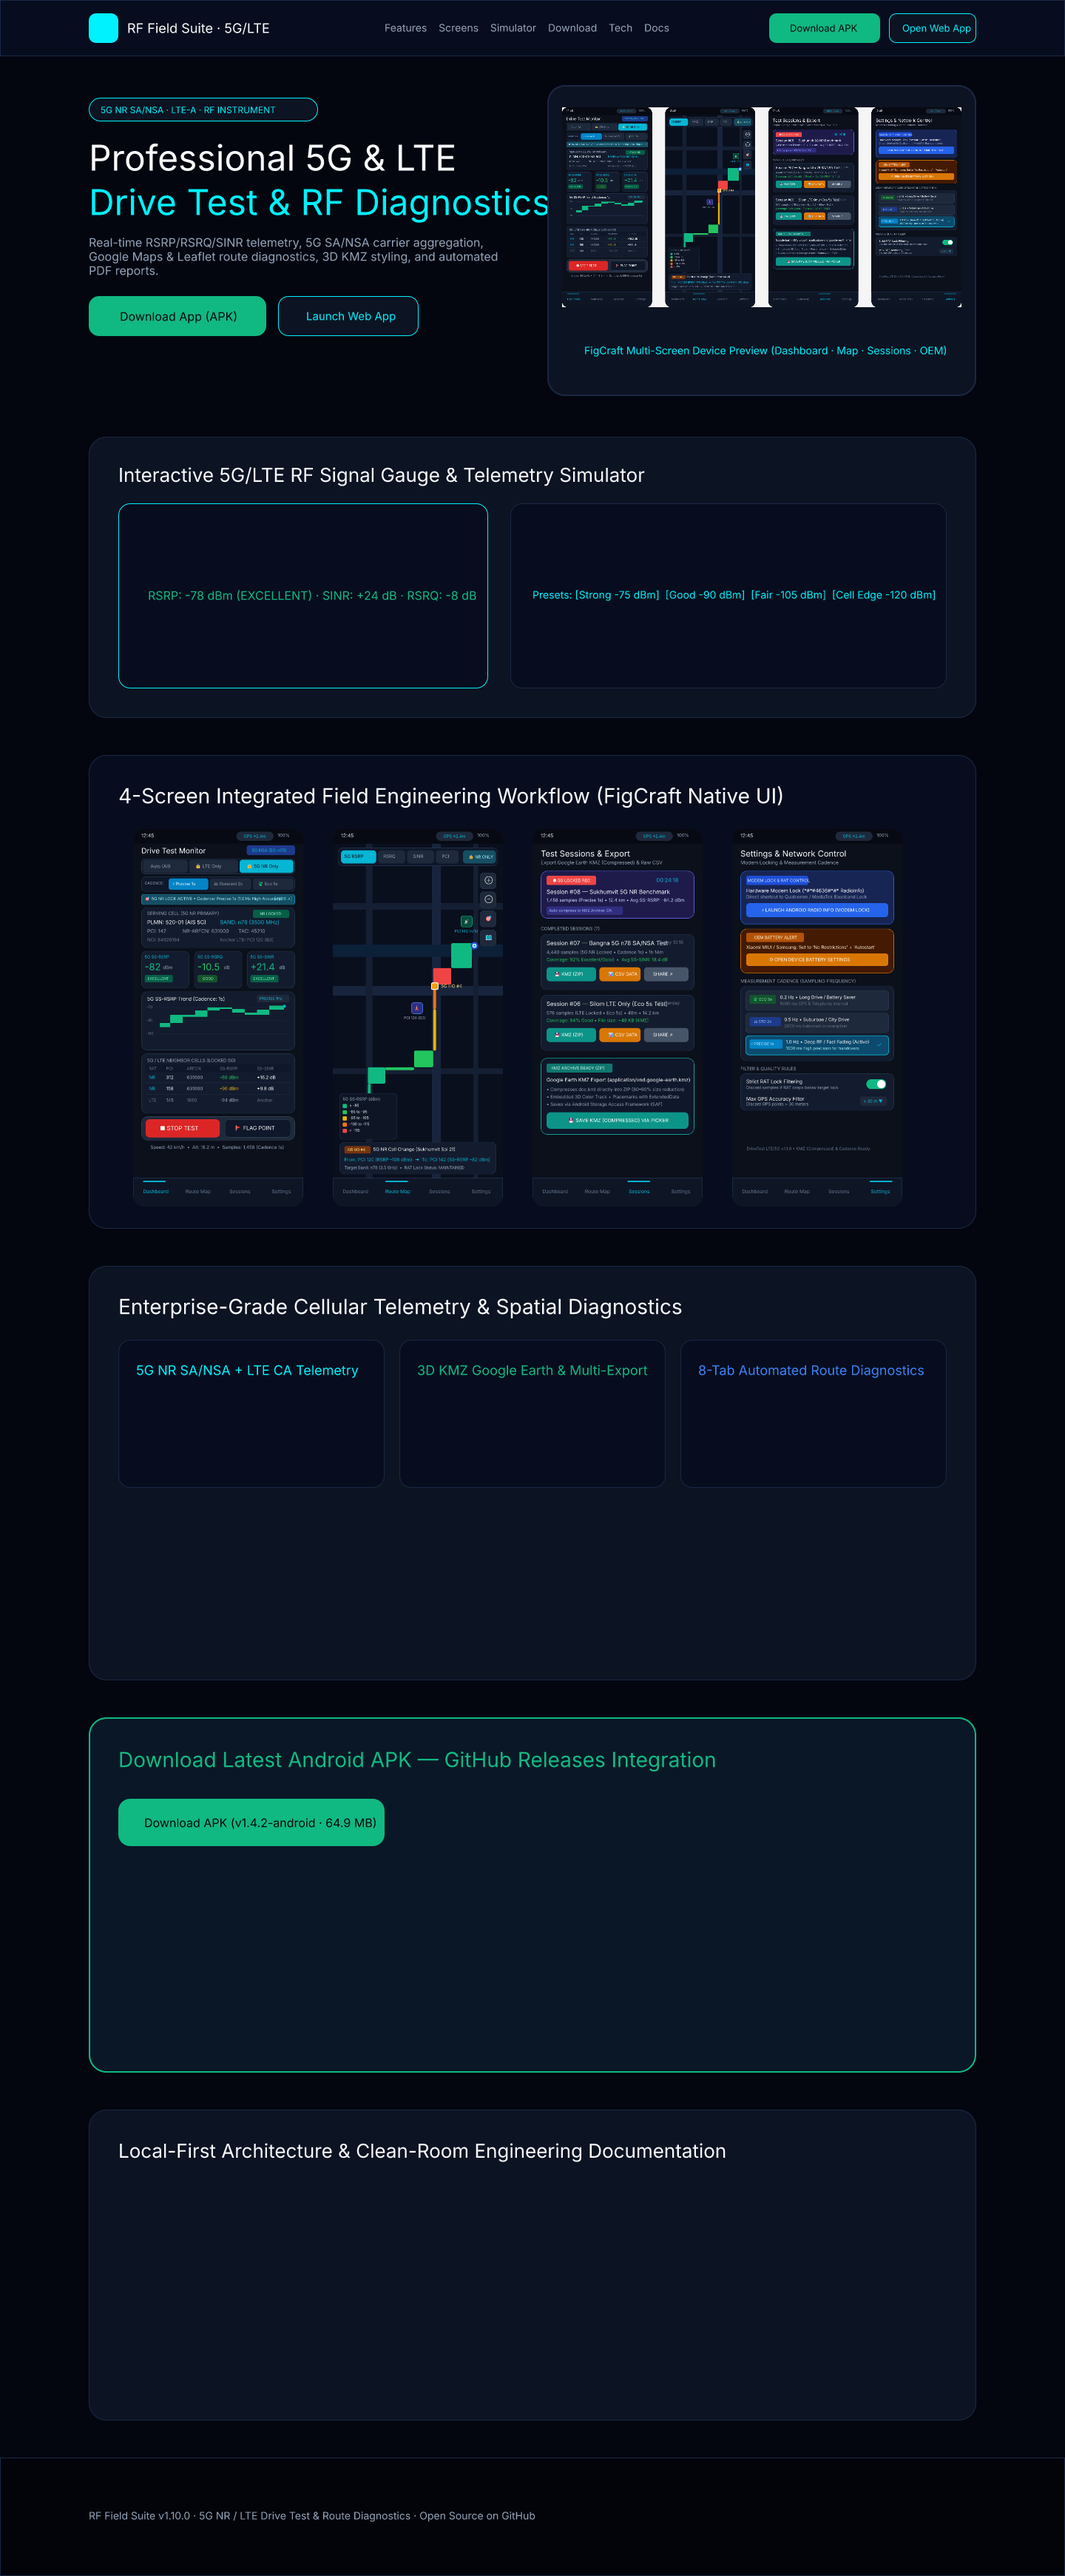
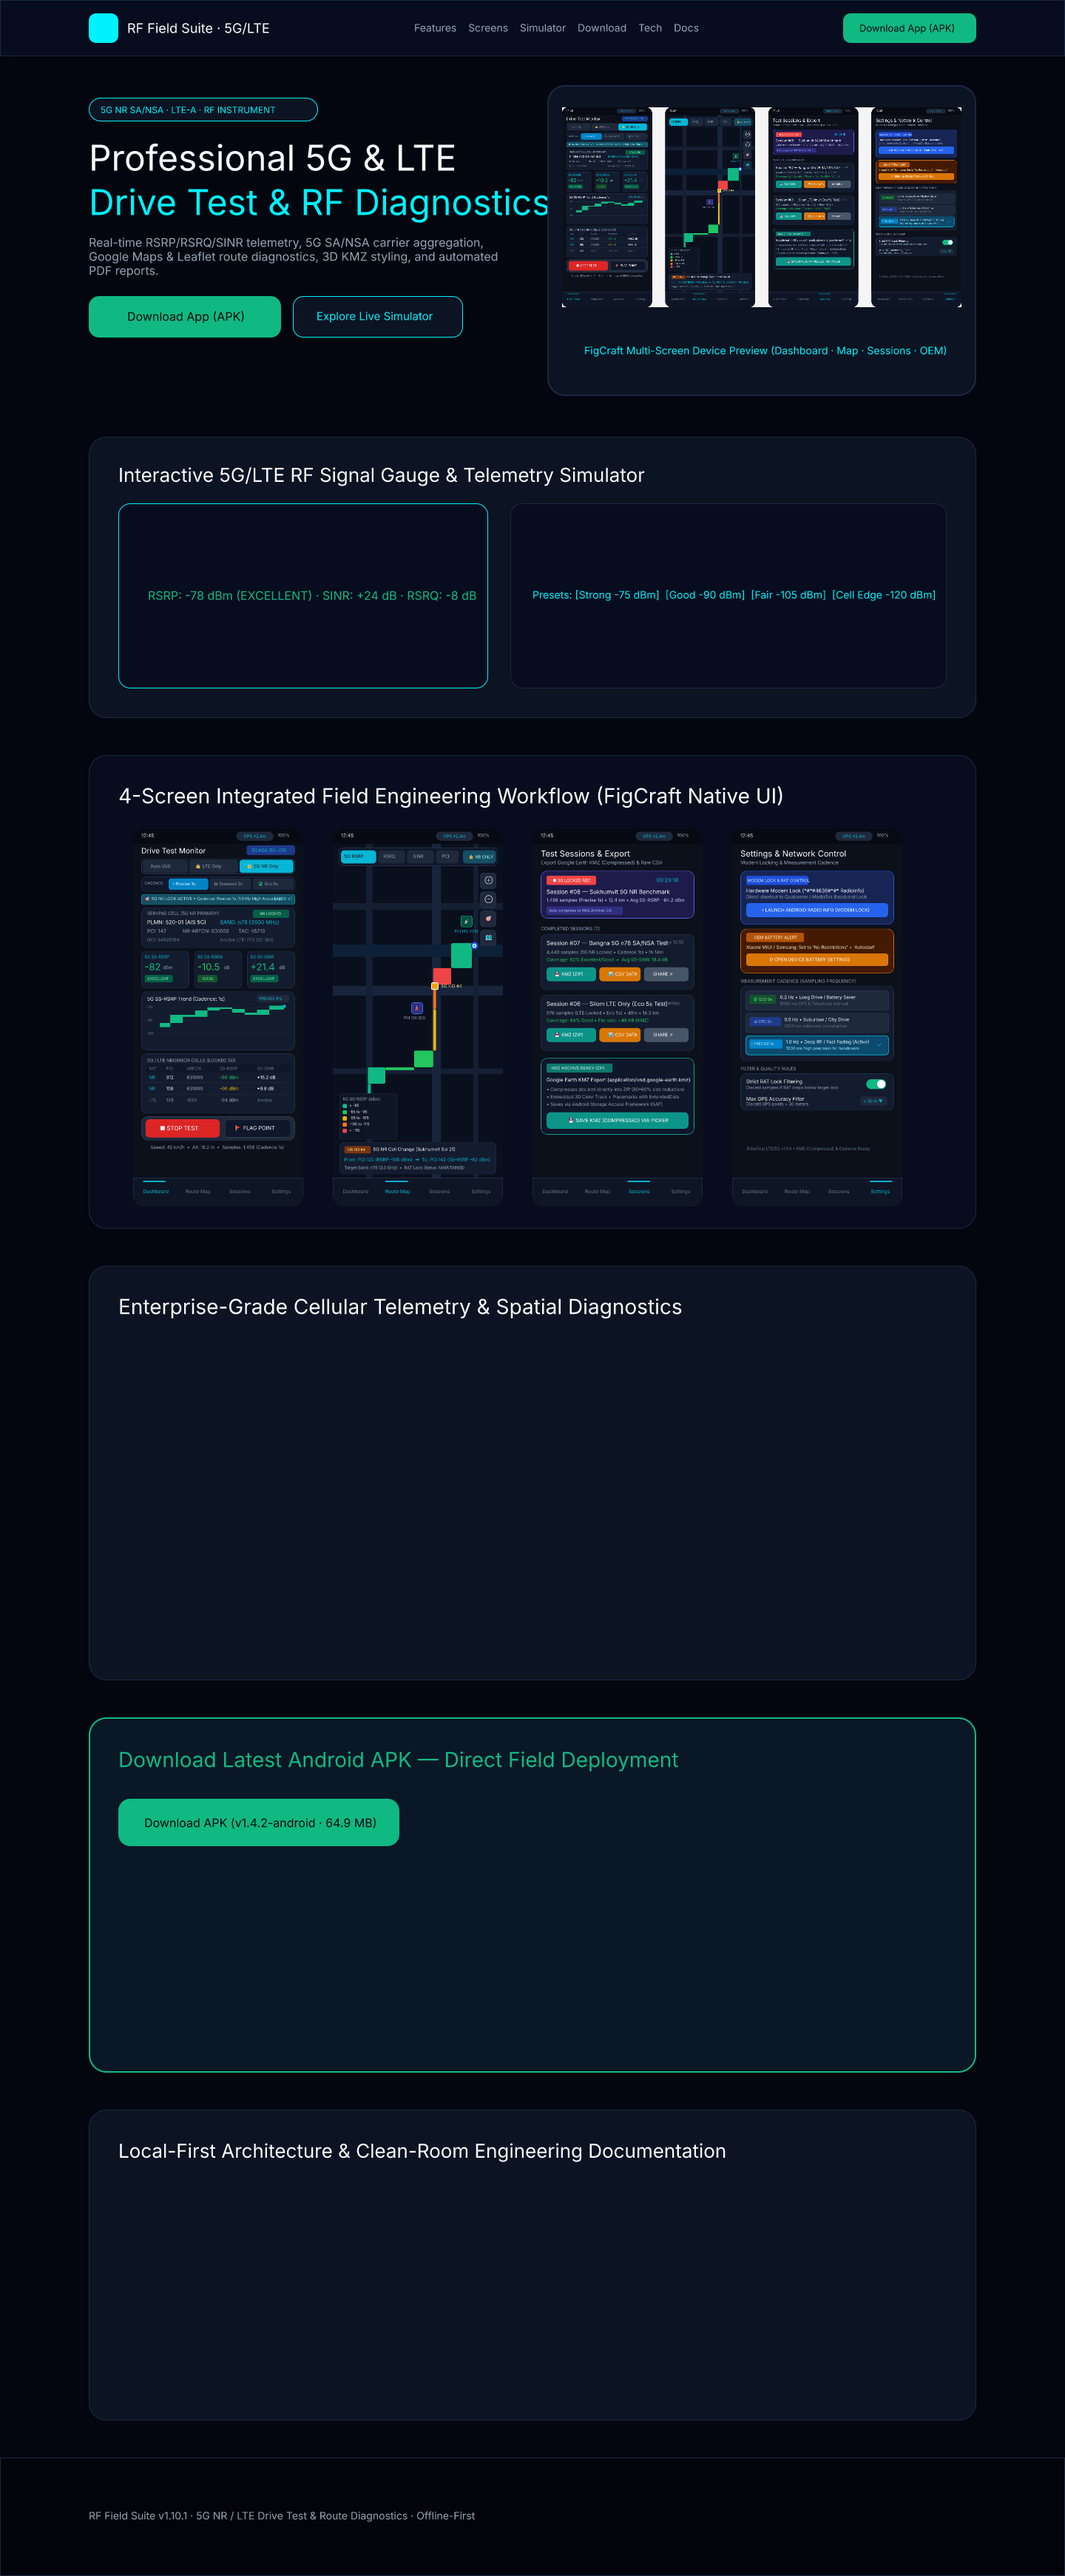
feat(docs): remove Web App and GitHub links & rebalance landing page layout (v1.10.1)

Changed region(s): [[0.7188, 0.0, 0.9375, 0.031], [0.25, 0.0931, 0.2812, 0.1552], [0.3438, 0.6828, 0.375, 0.7138]]

diff --git a/docs/index.html b/docs/index.html
@@ -83,19 +83,6 @@
               <span>Download App</span>
               <span class="apk-badge" data-apk-tag>v1.4.2</span>
             </a>
-            <a
-              class="btn btn-outline-cyan btn-sm"
-              href="https://sigpath-web.saweksoot.workers.dev/"
-              target="_blank"
-              rel="noopener"
-            >
-              <span>Open Web App</span>
-              <svg class="btn-icon" viewBox="0 0 24 24" fill="none" stroke="currentColor" stroke-width="2" stroke-linecap="round" stroke-linejoin="round" aria-hidden="true">
-                <path d="M18 13v6a2 2 0 0 1-2 2H5a2 2 0 0 1-2-2V8a2 2 0 0 1 2-2h6" />
-                <polyline points="15 3 21 3 21 9" />
-                <line x1="10" y1="14" x2="21" y2="3" />
-              </svg>
-            </a>
           </li>
         </ul>
       </nav>
@@ -143,29 +130,12 @@
 
               <a
                 class="btn btn-glass btn-lg"
-                href="https://sigpath-web.saweksoot.workers.dev/"
-                target="_blank"
-                rel="noopener"
+                href="#simulator"
               >
                 <svg class="btn-icon" viewBox="0 0 24 24" fill="none" stroke="currentColor" stroke-width="2" stroke-linecap="round" stroke-linejoin="round" aria-hidden="true">
-                  <circle cx="12" cy="12" r="10" />
-                  <line x1="2" y1="12" x2="22" y2="12" />
-                  <path d="M12 2a15.3 15.3 0 0 1 4 10 15.3 15.3 0 0 1-4 10 15.3 15.3 0 0 1-4-10 15.3 15.3 0 0 1 4-10z" />
+                  <polygon points="5 3 19 12 5 21 5 3" />
                 </svg>
-                <span>Launch Web App</span>
-              </a>
-
-              <a
-                class="btn btn-ghost btn-lg"
-                href="https://github.com/EEMEEMMEEx/Drive-Test-5G-LTE-RF"
-                target="_blank"
-                rel="noopener"
-              >
-                <svg class="btn-icon" viewBox="0 0 24 24" fill="none" stroke="currentColor" stroke-width="2" stroke-linecap="round" stroke-linejoin="round" aria-hidden="true">
-                  <path d="M15 22v-4a4.8 4.8 0 0 0-1-3.5c3 0 6-2 6-5.5.08-1.25-.27-2.48-1-3.5.28-1.15.28-2.35 0-3.5 0 0-1 0-3 1.5-2.64-.5-5.36-.5-8 0C6 2 5 2 5 2c-.3 1.15-.3 2.35 0 3.5A5.403 5.403 0 0 0 4 9c0 3.5 3 5.5 6 5.5-.39.49-.68 1.05-.85 1.65-.17.6-.22 1.23-.15 1.85v4" />
-                  <path d="M9 18c-4.51 2-5-2-7-2" />
-                </svg>
-                <span>GitHub</span>
+                <span>Live RF Simulator</span>
               </a>
             </div>
 
@@ -748,39 +718,36 @@
 
             <article class="card runtime-card">
               <div class="runtime-card-head">
-                <h3>Web App (PWA)</h3>
-                <span class="runtime-tag tag-cyan">Instant Browser Launch</span>
+                <h3>RF Route Simulator</h3>
+                <span class="runtime-tag tag-cyan">Interactive Demo</span>
               </div>
               <p>
-                Installable Progressive Web App with offline service worker, RF route simulator, CSV log
-                import, 8-tab analytics, and printable PDF engineering reports.
+                Interactive telemetry engine with live RSRP arc gauge, RSRQ, SINR, CQI modulation mapping,
+                and 4 field scenario presets right on this page.
               </p>
               <a
-                class="btn btn-outline-cyan btn-block"
-                href="https://sigpath-web.saweksoot.workers.dev/"
-                target="_blank"
-                rel="noopener"
+                class="btn btn-glass btn-block"
+                href="#simulator"
               >
-                Launch Web App
+                Try Live Simulator
               </a>
             </article>
 
             <article class="card runtime-card">
               <div class="runtime-card-head">
-                <h3>Source &amp; Design Files</h3>
-                <span class="runtime-tag tag-blue">Open Source</span>
+                <h3>FigCraft Design Model</h3>
+                <span class="runtime-tag tag-blue">ArtCraft Engine</span>
               </div>
               <p>
-                Full repository with Capacitor 8 bridge, Kotlin native project, VectorCraft SVG logos, and
-                FigCraft design files (`drive-test-lte-5g.figcraft`).
+                Native `.figcraft` design model with desktop and mobile frames, official VectorCraft logo,
+                and high-contrast dark telemetry theme for FigCraft.
               </p>
               <a
                 class="btn btn-ghost btn-block"
-                href="https://github.com/EEMEEMMEEx/Drive-Test-5G-LTE-RF"
-                target="_blank"
-                rel="noopener"
+                href="design/landing_page.figcraft"
+                download
               >
-                Explore Repository
+                Download .figcraft Model
               </a>
             </article>
           </div>
@@ -899,7 +866,7 @@
 
         <div class="footer-links-col">
           <p class="footer-meta">
-            Version <span class="version">v1.10.0</span> ·
+            Version <span class="version">v1.10.1</span> ·
             <a
               data-apk-download
               href="https://github.com/EEMEEMMEEx/Drive-Test-5G-LTE-RF/releases/latest"
@@ -907,9 +874,11 @@
               rel="noopener"
             >Download APK</a>
             ·
-            <a href="https://sigpath-web.saweksoot.workers.dev/" target="_blank" rel="noopener">Web App</a>
+            <a href="#screens">Screens</a>
             ·
-            <a href="https://github.com/EEMEEMMEEx/Drive-Test-5G-LTE-RF" target="_blank" rel="noopener">GitHub</a>
+            <a href="#simulator">Simulator</a>
+            ·
+            <a href="#docs">Docs</a>
           </p>
         </div>
       </div>

diff --git a/README.md b/README.md
@@ -1,4 +1,4 @@
-# RF Field Suite — 5G NR / LTE Drive Test & Route Diagnostics (`v1.10.0`)
+# RF Field Suite — 5G NR / LTE Drive Test & Route Diagnostics (`v1.10.1`)
 
 A local-first web application replicating the full capabilities, UI screens, data schema, and RF engineering analytics of **GSM Drive Test: 5G LTE RF (`com.drivetest.app` v1.8.0)**, built following the [replica-skill](https://github.com/Jakeschincariol/replica-skill) clean-room methodology, complete with PWA offline-first support and Android Capacitor/Native runtime.
 
@@ -7,7 +7,7 @@ A local-first web application replicating the full capabilities, UI screens, dat
 
 ## Key Features
 
-- **PWA & Android Native Runtime (v1.10.0):**
+- **PWA & Android Native Runtime (v1.10.1):**
   - **PWA Offline-First:** Service worker precaching, Web App Manifest, offline map tile caching (`stale-while-revalidate` / `network-first`), and standalone install prompt.
   - **Capacitor Android Wrapper:** Bridge plugin (`DriveTestPlugin.java`) with foreground service (`DriveTestForegroundService.java`) for real cellular telephony radio metrics and GNSS location tracking on device.
   - **Android Native Project (`android-native/`):** Standalone Kotlin Jetpack Compose app (`v1.4.1`) with Google Maps SDK, 3D KMZ export with Google Earth styling, VectorCraft official logo, real-time telephony collector, and background foreground service.
